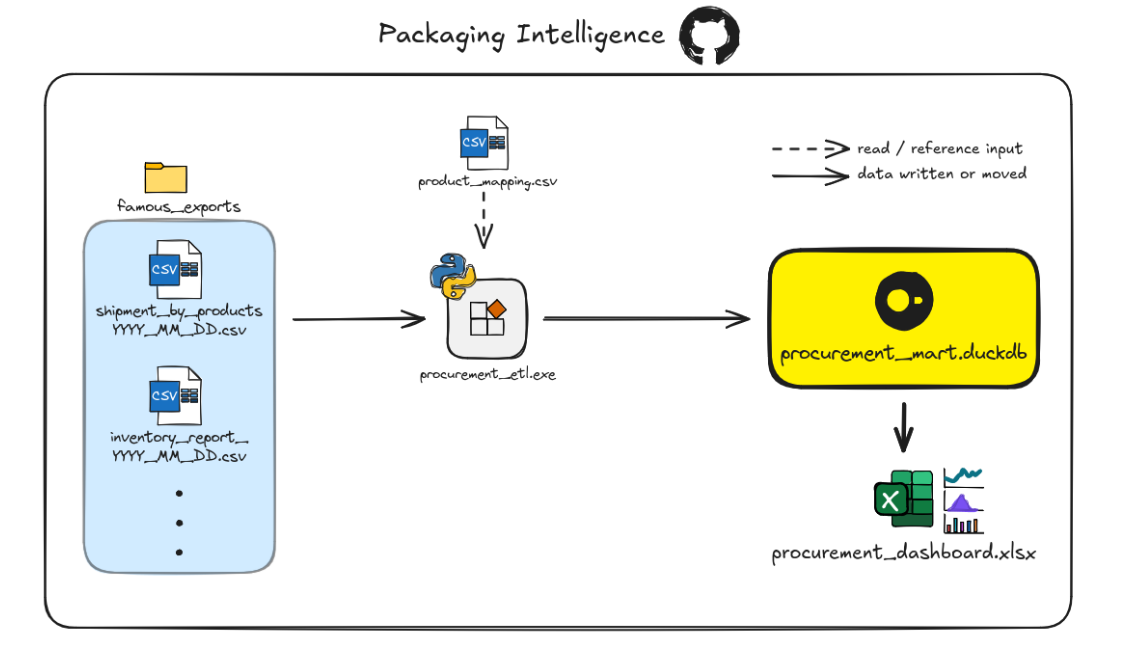
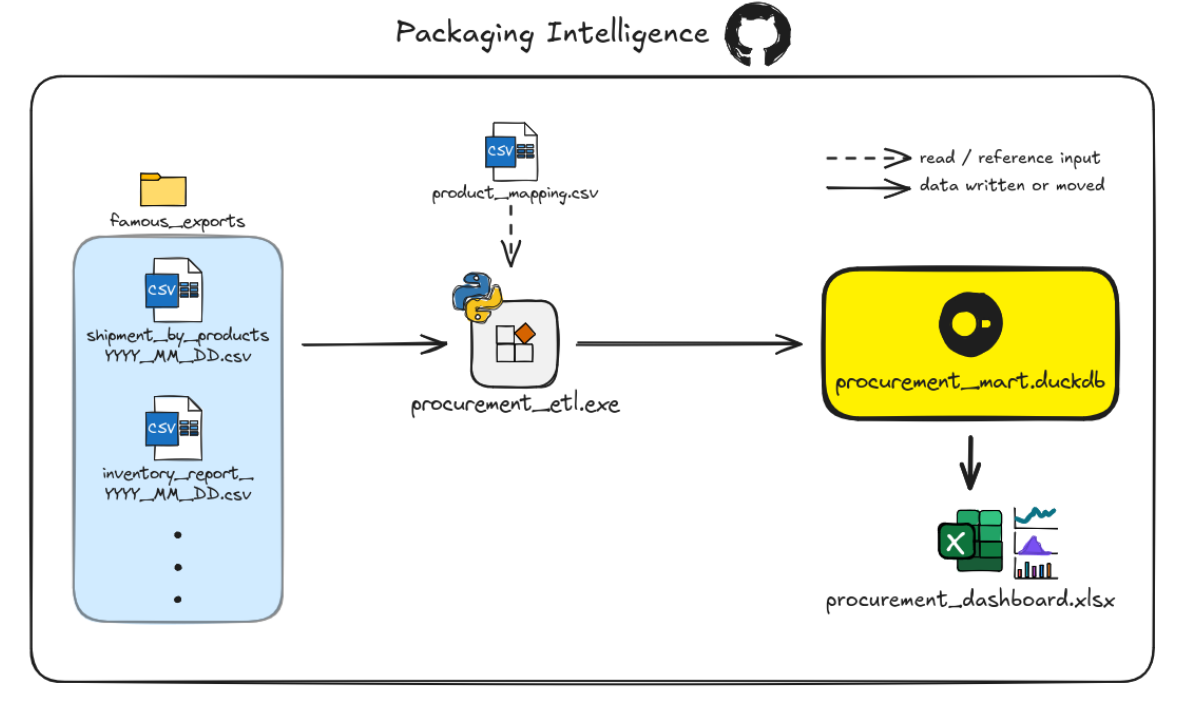
added/fixed information in README and changed archtitecure image format

diff --git a/README.md b/README.md
@@ -1,61 +1,62 @@
 # procurement-packaging-report
-A lightweight packaging procurement analytics project that transforms Famous ERP exports with Python and delivers Excel reporting for inventory, usage, waste tracking, reorder planning, and basic forecasting.
+
+A lightweight packaging procurement analytics project that transforms Famous ERP shipping exports with Python, stores aggregated packaging usage in DuckDB, and exposes the results to Excel for reporting and analysis.
 
 ## Business Purpose
-Procurement wants a snapshot of current inventory and what has already gone out so they know how much packaging and boxes have already been used versus what we have in on-site.
-Eventually we would want to track how much is wasted/garbage as well. The main purpose is to figure when to order and from whom based on time of the season and prices from last year.
+Procurement needs a reliable view of what has shipped so they can determine confirmed packaging and box consumption.
 
 ## Architecture
 
 ![Packaging Intelligence architecture](imgs/architecture.png)
 
-1. Famous ERP Exports - for now we manually export a CSV and drop in ```data/famous_exports/shipping_reports``` folder. We would like to have one for inventory eventually and that the exports be automated to an email daily which we can grab from.
-2. Procurement ETL - this is a Python script that grabs the respective data from the CSV files and then count how many of each product was packed that day in aggregation.
-3. Product Mapping CSV - file that is read by the script to count all the different pack styles. Should a new pack style need to be counted procurement can edit this file to add it.
-4. Procurement DB - where we store the aggregated counts by report date.
-5. Procurement Dashboard - connected to database, shows procurement the numbers that they want to see.
+1. Famous ERP Exports - we manually export a CSV and drop in ```data/famous_exports/shipping_reports``` folder.
+2. Procurement ETL - a Python script that grabs the respective column data from the CSV files and then counts total packaging/box combinations.
+3. Product Mapping CSV - file that is read by the script to count all the different pack styles.
+4. Procurement DB - stores aggregated packaging quantities by product combination and report data. 
+5. Procurement Dashboard - Excel reporting layer connected to DuckDB for filtering and analyzing packaging usage. 
 
 ## Technology Stack
- - Python: has the libraries we want to help us process data and easy to work with
- - pandas: simplifies data reading, extraction, cleaning, and organizing
- - regular expressions: this is how we match the data in the exports and the ```product_mapping.csv``` to sum up the counts for the packing style
- - DuckDB: where our data is stored after processing. A proper database installation, Docker container, or cloud platform would be too much for this project
- - Excel: what the procurement will open to see the numbers/visualisations and they already have a license.
- - Power Query: how the data is loaded into Excel.
- - ODBC: has to be installed onto the computer in order for Excel to connect to the DuckDB.
- - Pyinstaller: makes script into an executable that procurement just needs to double click when new data is added to exports
+
+ - Python: used for the ETL logic and file processing. 
+ - pandas: used for read, transform, filter, and aggregate Famous ERP exports. 
+ - Regular expressions: used to match Famous product descriptions to configured pack style and label combinations.
+ - DuckDB: lightweight embedded analytical database suitable for the size and deployment requirements of the project.
+ - ODBC: provides connection between DuckDB and Excel.
+ - Excel: reporting interface already available to procurement. 
+ - Pyinstaller: packages the Python ETL script into a standalone executable. 
 
 ## Project Structure
 
 ![Folder Organization](imgs/folder_structure.png)
 
-PROCUREMENT - gets only the files/folders they need see/use.  
-DEVELOPER - the ```dist```,```build``` folders, and ```procurement.spec``` are generated when ```Pyinstaller``` is run on the ```procurement_etl.py``` file.  
-The person working on this is works with the main ```.py``` file.
-
 *Note: some files are not on repository since they contain company information, hence omission* 
 
 ## Input Data
+
 ### Shipping Report
-- Format for export: ```shipments_by_products_YYYY_MM_DD.csv```
+
+- Format for export: ```shipments_by_product_YYYY_MM_DD.csv```
 - Date is important because it represents what day the data is from and we use as a column in our database
 - Save to: ```data/famous_exports/shipping_reports```
-- Columns we want: ```productdesc``` -> ```product``` and ```qnt1``` -> ```quantity```
+- Columns we want: ```productdescr``` renamed to ```product``` and ```qnt1``` renamed to ```quantity```
 
 ## Product Mapping
+
 - Columns: ```weight``` and ```label```
 - The pack style on the company side reads more like a weight and it tells procurement what packaging was used and the label tells us which box it was packed into
-- Exists outside of the executable so procurement can quickly update if need be
+- Exists outside of the executable so procurement can quickly update if need be and no need for rebuilding
 - Procurement simply opens it up in text editor and adds a line with a weight and label combination separated by a comma, save, and can run executable to get count
-- No need for rebuilding after update
 
 ## ETL Logic
+
 ### Extract
+
 - Locate the shipping reports
 - Read only the required columns
 - Extract date from filename
 
 ### Transform 
+
 - Rename columns
 - Match product descriptions against mapping rules
 - Use regular expressions to avoid incorrect matches/double counting
@@ -63,6 +64,7 @@ The person working on this is works with the main ```.py``` file.
 - Add report date
 
 ### Load
+
 - Build/rebuild ```fact_shipment```
 - Insert transformed rows into DuckDB
 - Make data available to Excel 
@@ -71,28 +73,66 @@ The person working on this is works with the main ```.py``` file.
 
 ![Database Model](imgs/fact_shipment.png)
 
-- product: the concatenation of label and weight and for display purposes
-- weight: the package style
-- label: the box style
-- quantity: aggregated count of weight and label combinations
-- date: the date of the exported CSV from Famous
+- ```product```: the concatenation of ```weight``` and ```label```, used as a human-readable reporting category.
+- ```weight```: the pack style
+- ```label```: the box style
+- ```quantity```: aggregated count of weight and label combinations
+- ```date```: the date of the exported CSV from Famous
+
+*One row represents the aggregated quantity for a single weight/label combination on a single report date*
 
 ## User Workflow
-1. Export the report from Famous
-2. Rename it using the required naming convention shown in [Input Data](#input-data) section
-3. Place it in the shipping reports folder
-4. Run the procurement executable
-5. Open the Excel report
-6. Refresh the workbook if necessary
-7. Select the desired reporting period
+
+1. Export the report from Famous.
+2. Rename it using the required naming convention shown in [Input Data](#input-data) section.
+3. Place it in the shipping reports folder.
+4. Run the procurement executable.
+5. Open the Excel report.
+6. Confirm the data refresh completes successfully.
+7. Select the desired reporting period.
 
 ## Installation / Initial Setup
-- [DuckDB ODBC driver requirement](https://duckdb.org/docs/current/clients/odbc/windows)
+
+1. Copy the ```ProcurementReport``` folder to the user's computer 
+2. Install the 64-bit [DuckDB ODBC driver](https://duckdb.org/docs/current/clients/odbc/windows)
+3. Create/configure the DuckDB ODBC DSN
+4. Point the DSN to ```database/procurement_mart.duckdb```
+5. Open the Excel workbook 
+6. Configure/verify the Power Query connection
+7. Enable refresh on workbook open
+8. Test the executable with a known report
 
 ## Building the Executable
+
 For developer/maintenance use:
-```python -m pip install -r requirements.txt```
-after creating a venv
+```powershell
+python -m pip install -r requirements.txt
+```  
+after creating a ```.venv``` in project folder
 
 For building the executable use:
-```pyinstaller --onefile procurement_etl.py```
+```pyinstaller --onefile procurement_etl.py```  
+the generated executable will be available in the ```dist/``` directory
+
+## Known Limitations
+
+- Shipping reports filenames must follow the required naming convention.
+- Required Famous columns must remain unchanged.
+- Pack style criteria must exist in ```product_mapping.csv``` to be counted.
+- Missing shipping report files for operational days will cause incomplete period totals.
+- The ETL currently rebuilds ```fact_shipment``` from the source files present in the export folder.
+- Famous exports are currently created manually.
+- Inventory and waste tracking are planned but not yet implemented.
+- Excel requires a working DuckDB ODBC connection.
+
+## Future Improvements
+
+- [ ] Add logging
+- [ ] Automatic report naming
+- [ ] Duplicate file detection
+- [ ] Automatic file validation
+- [ ] Implement tests for ETL script
+- [ ] Automate CSV exports and grab them via email
+- [ ] Add user-facing messages upon start, completion, and errors
+- [ ] Incremental loading of data instead of full rebuild
+
